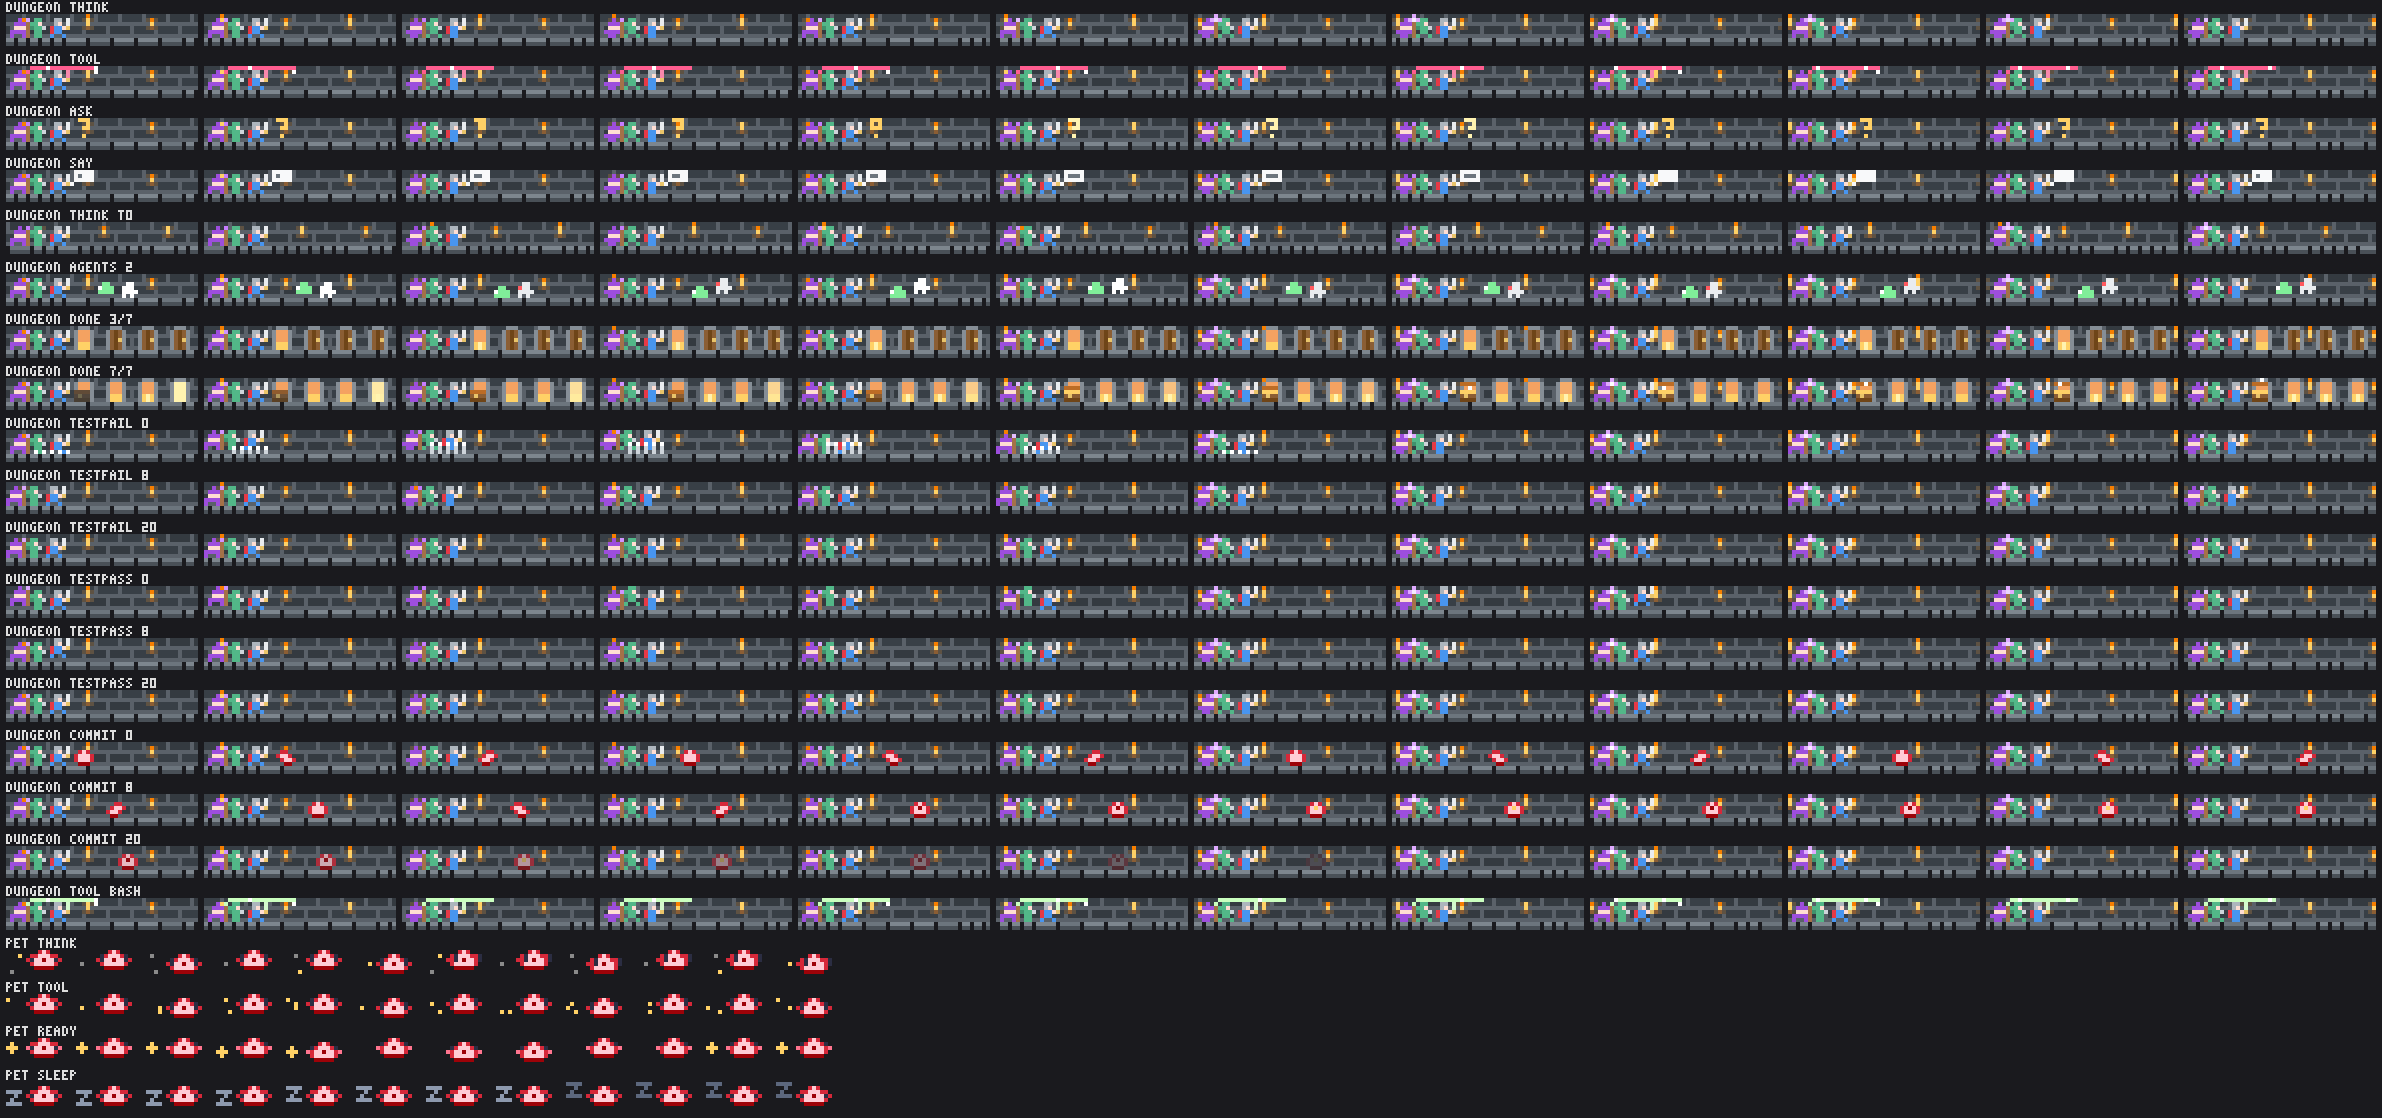
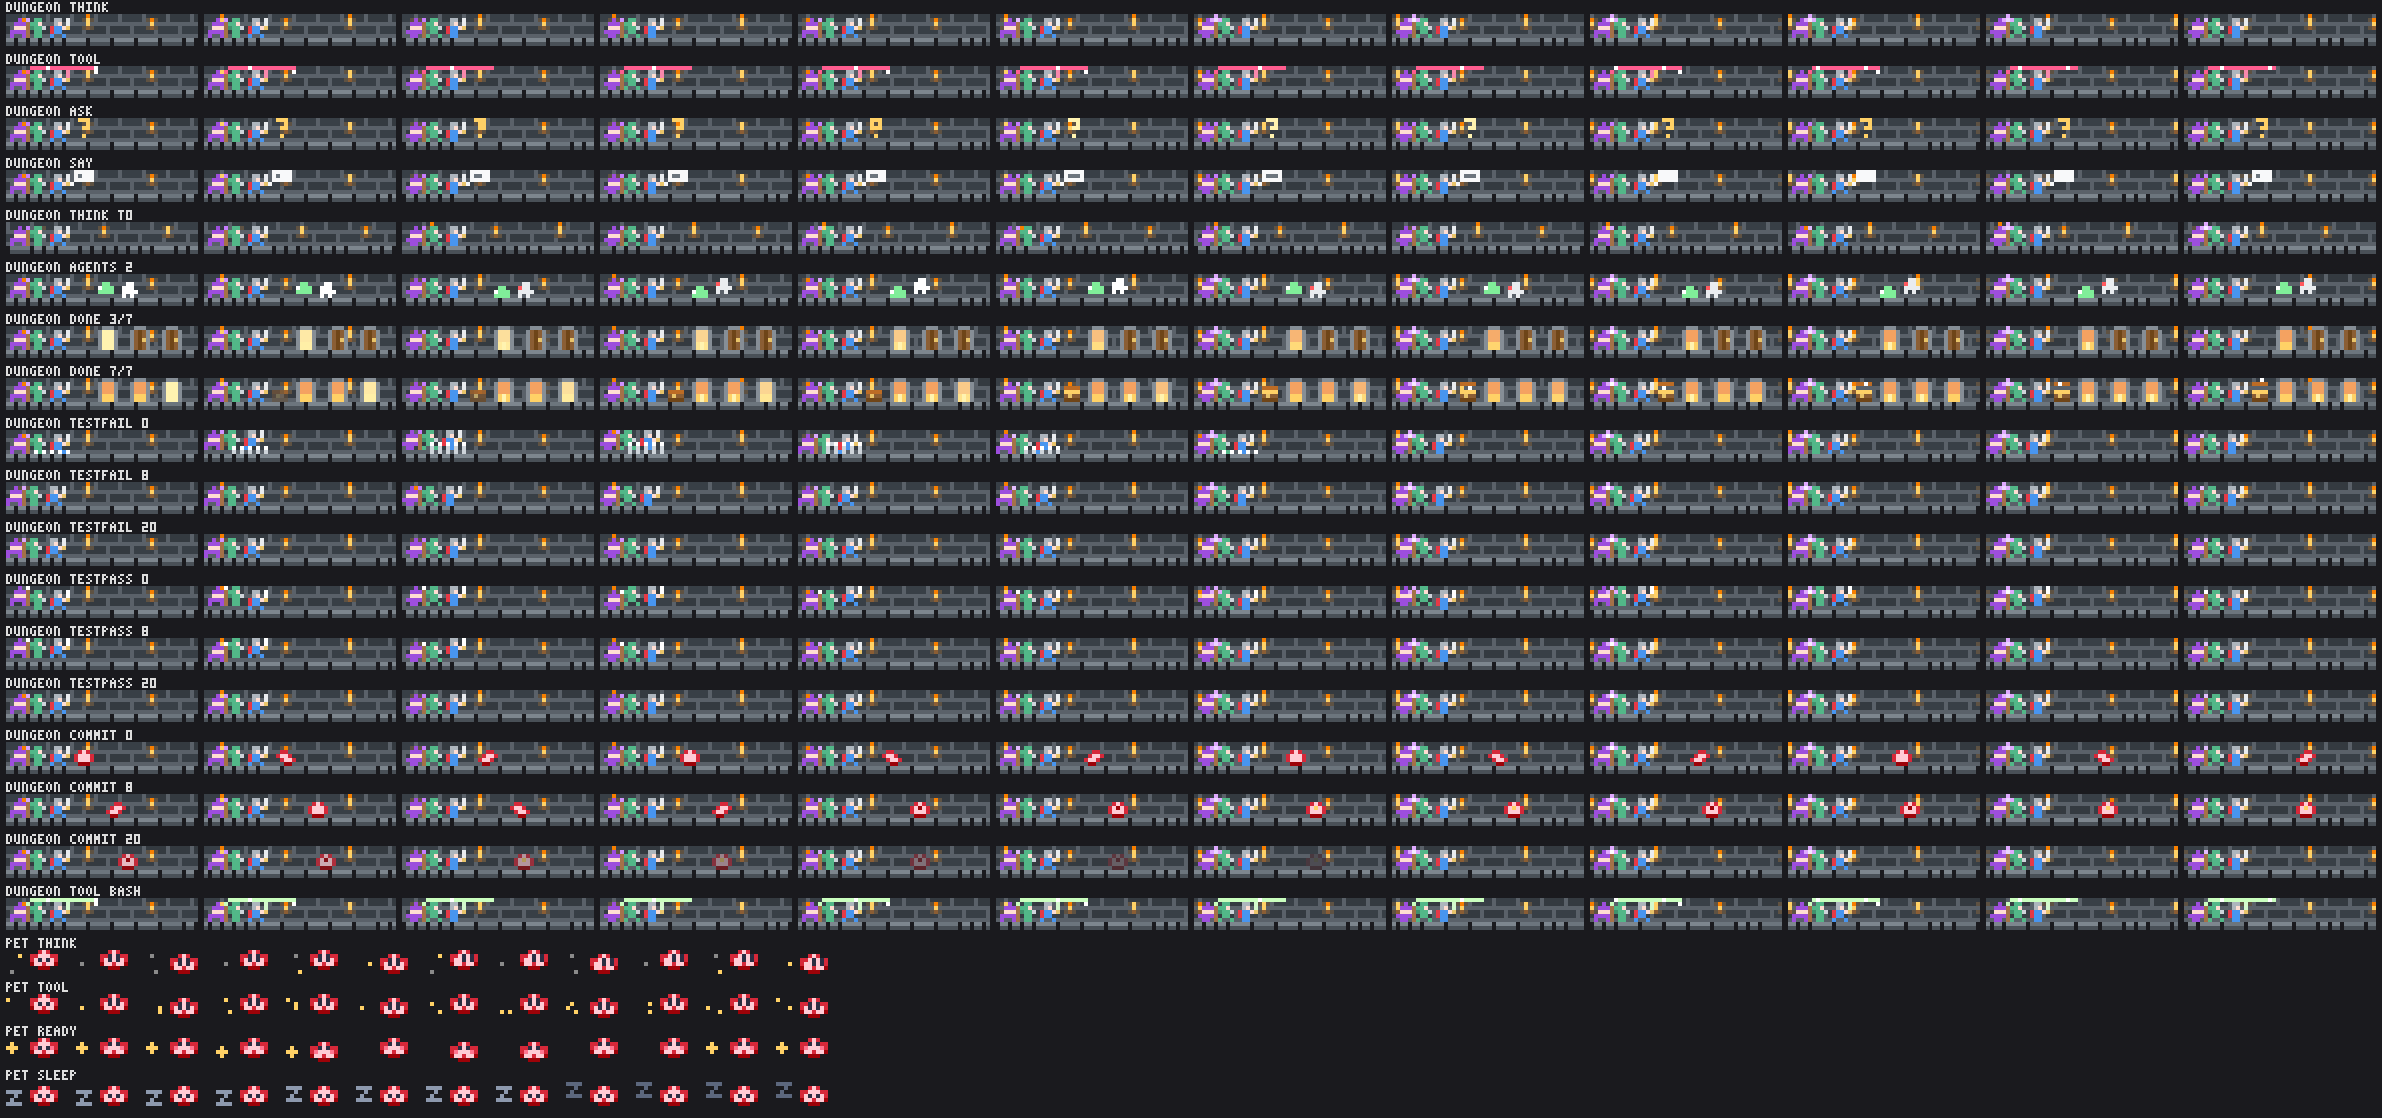
showtime: dungeon review fixes — the doors start past the cue gap (at the first monster slot), so ask's ?, say's bubble, wait's z, the chest and the d20's start sit on bare wall and never on door 0; the pet is a 7-wide d20 pointed top and bottom, a pale triangle up the middle with its number and the

diff --git a/showtime/hooks/themes/dungeon.ts b/showtime/hooks/themes/dungeon.ts
@@ -153,7 +153,7 @@ export function dungeonScene(t: number, w: number, s: Signals): Grid {
 
   // Layers 1-3: the wall and its torches, the doors, the floor.
   wall(cv, t, s)
-  doors(cv, t, s, gx)
+  doors(cv, t, s, mx)
   floor(cv, t)
 
   // testFail: the party hops and lands a pixel back (the spikes spring up in front of its feet, below).
@@ -161,22 +161,24 @@ export function dungeonScene(t: number, w: number, s: Signals): Grid {
   const hop = isFail ? (HOP[s.newsAge] ?? 0) : 0
 
   // The tool act's own, grown on actAge and kept through any reaction: a spell from the staff's orb to the first
-  // monster's slot (a cell a frame), a white spark running along it, the orb and the blade in the tool's colour.
+  // monster's slot (a cell a frame, over the party's heads), a white spark along it, the orb and blade tinted.
   const ox = px - back + 5
   const spell = isTool ? Math.min(mx - ox, s.actAge + 1) : 0
-  for (let j = 0; j < spell; j++) plot(cv, ox + j, 0, mod(t, SPARK) === j % SPARK ? WHITE : ink)
   const reached = isTool && spell >= mx - ox
-  if (reached && mod(t, 4) < 2) plot(cv, mx - 1, 1, WHITE)
 
   // Layer 4: the party, stepping on four frames (the three out of phase), cheering a hop each on testPass.
   const glow = s.act === 'think' && s.actAge >= 4 ? Math.abs(mod(t, 12) - 6) / 6 : 0
   const blade = isTool ? mix(PARTY.B!, ink, 0.7) : PARTY.B!
-  const party: Ink = { ...PARTY, O: isTool ? ink : mix(ORB, WHITE, glow), B: blade }
+  const passing = s.news === 'testPass' && s.newsAge < CHEER
+  const orb = isTool ? ink : passing ? WHITE : mix(ORB, WHITE, glow)
+  const party: Ink = { ...PARTY, O: orb, B: passing ? WHITE : blade }
   const step = (i: number) => (mod(t + 2 * i, 4) < 2 ? 0 : 1)
-  const cheer = (i: number) => (s.news === 'testPass' && s.newsAge < CHEER && mod(s.newsAge - 3 * i, 12) < 3 ? 1 : 0)
+  const cheer = (i: number) => (s.news === 'testPass' && s.newsAge < CHEER && mod(s.newsAge - i, 6) < 3 ? 1 : 0)
   const figs = [[MAGE, LEGS.mage], [ROGUE, LEGS.rogue], [WARRIOR, LEGS.warrior]] as const
   figs.forEach(([art, legs], i) => draw(cv, px - back + 5 * i, 1 - hop - cheer(i), [...art, legs[step(i)]!], party))
   if (glow > 0.5) for (const [dx, dy] of [[-1, 1], [1, 1], [0, 0]] as const) plot(cv, px - back + 4 + dx, dy, HALO)
+  for (let j = 0; j < spell; j++) plot(cv, ox + j, 0, mod(t, SPARK) === j % SPARK ? WHITE : ink)
+  if (reached && mod(t, 4) < 2) plot(cv, mx - 1, 1, WHITE)
   // The trap's spikes at the party's fixed spot, in front of its feet, rising and sinking a pixel a frame.
   if (s.news === 'testFail' && s.newsAge < SPIKES.length) {
     for (let j = 0; j < 5; j++) for (let k = 0; k < SPIKES[s.newsAge]!; k++) {
@@ -210,19 +212,20 @@ export function dungeonScene(t: number, w: number, s: Signals): Grid {
     draw(cv, gx + 1, 3 - (mod(t, 12) >> 2), Z_ART.slice(0, Math.min(3, s.actAge + 1)), { Z: ZED })
   }
 
-  // 100%: a chest beside the party, fading in, its lid lifting a pixel every other frame, gold and a glint
-  // rising out of it, fading after.
+  // 100%: a chest in the gap, eased in from the wall behind it over three frames, its lid lifting a pixel every
+  // other frame, gold and a glint rising out of it, eased back into the wall by its last frame.
   if (s.total > 0 && s.done >= s.total && s.doneAge < CHEST) {
     const a = s.doneAge
-    const fade = (c: string) => mix(WALL, c, clamp(Math.min(a + 1, CHEST - a) / 3))
+    const k = clamp(Math.min(a, CHEST - 1 - a) / 3)
+    const box = (x: number, y: number, c: string) => plot(cv, x, y, mix(cv.px[y * w + x] ?? WALL, c, k))
     const lift = Math.min(2, Math.max(0, (a - 3) >> 1))
     for (let dx = 0; dx < 4; dx++) {
-      plot(cv, gx + dx, 3 - lift, fade('#bc6c25'))
-      if (lift > 0) plot(cv, gx + dx, 3, fade(TORCH))
-      plot(cv, gx + dx, 4, fade(dx === 1 ? RING : DOOR))
-      plot(cv, gx + dx, 5, fade(DOOR2))
+      box(gx + dx, 3 - lift, '#bc6c25')
+      if (lift > 0) box(gx + dx, 3, TORCH)
+      box(gx + dx, 4, dx === 1 ? RING : DOOR)
+      box(gx + dx, 5, DOOR2)
     }
-    if (a >= 7 && a < 13) plot(cv, gx + 1 + (a & 1), 2 - ((a - 7) >> 1), fade(WHITE))
+    if (a >= 7 && a < 13) box(gx + 1 + (a & 1), 2 - ((a - 7) >> 1), WHITE)
   }
 
   // commit: the d20 rolls from the gap a cell a frame, tumbling, rests on 20 (its number flashing), fades; at a
@@ -240,15 +243,15 @@ export function dungeonScene(t: number, w: number, s: Signals): Grid {
   return cells(cv)
 }
 
-/** A d20 face-on: a hexagon of red side facets (its eyes on them), dark below, a pale triangle up the middle with
- * its number (a dark red pixel). */
+/** A d20 face-on, 7 wide and 5 tall: a hexagon pointed top and bottom, red upper side facets, dark lower ones, a
+ * pale triangle up the middle with its number (a red pixel) and the eyes on its flanks. */
 export const PET: PetArt = {
-  body: ['....STS....', '..SSTTTSS..', '.SSTTNTTSS.', '..STTTTTS..', '...sssss...'],
-  colors: { S: DIE, T: DIE_LIT, N: DIE_DARK, s: DIE_DARK },
-  eyes: [2, 8],
+  body: ['....STS....', '..SSTTTSS..', '..STTTTTS..', '..dTTNTTd..', '....ddd....'],
+  colors: { S: DIE, T: DIE_LIT, N: DIE, d: DIE_DARK },
+  eyes: [4, 6],
   eyeRow: 1,
   eye: '#2b2d42',
-  lid: DIE,
+  lid: DIE_LIT,
   blush: '#ff758f',
   spark: TORCH,
 }
